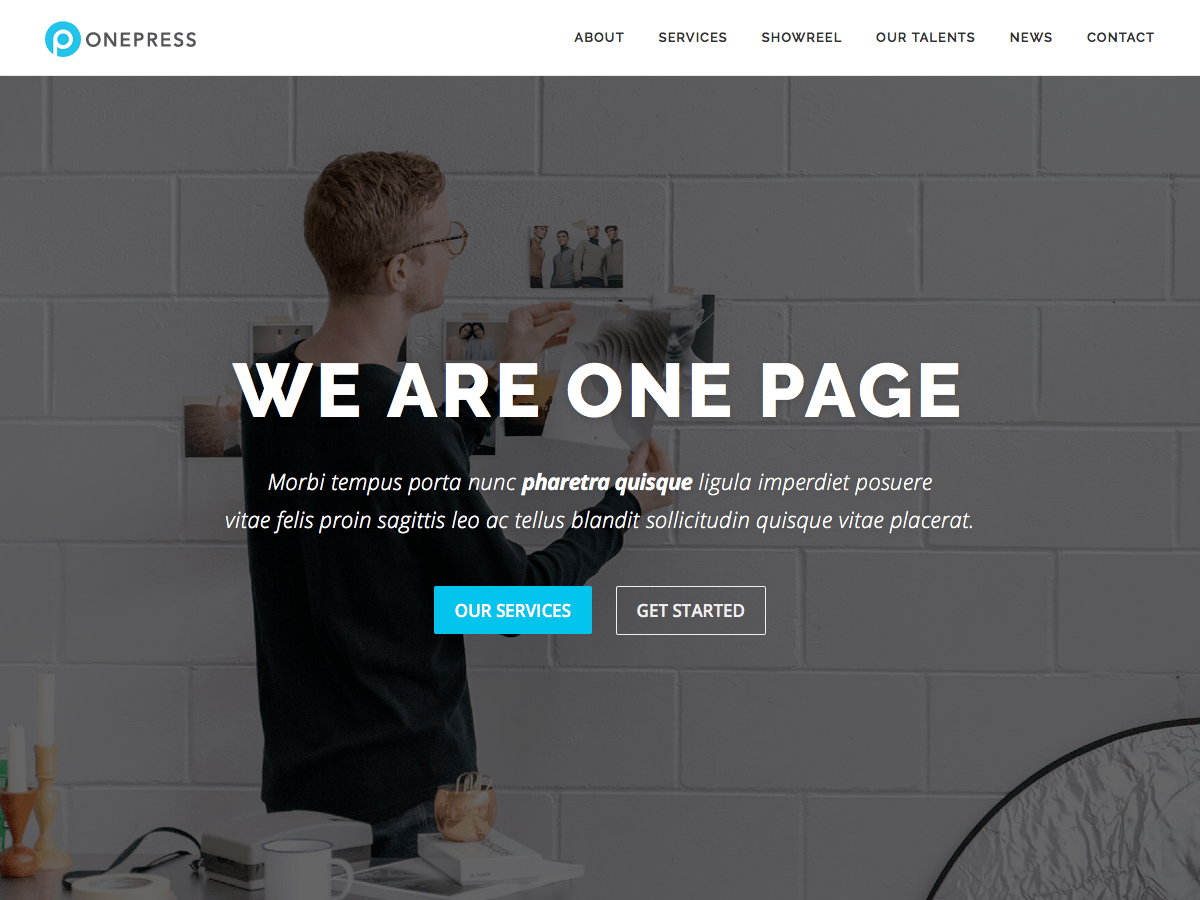
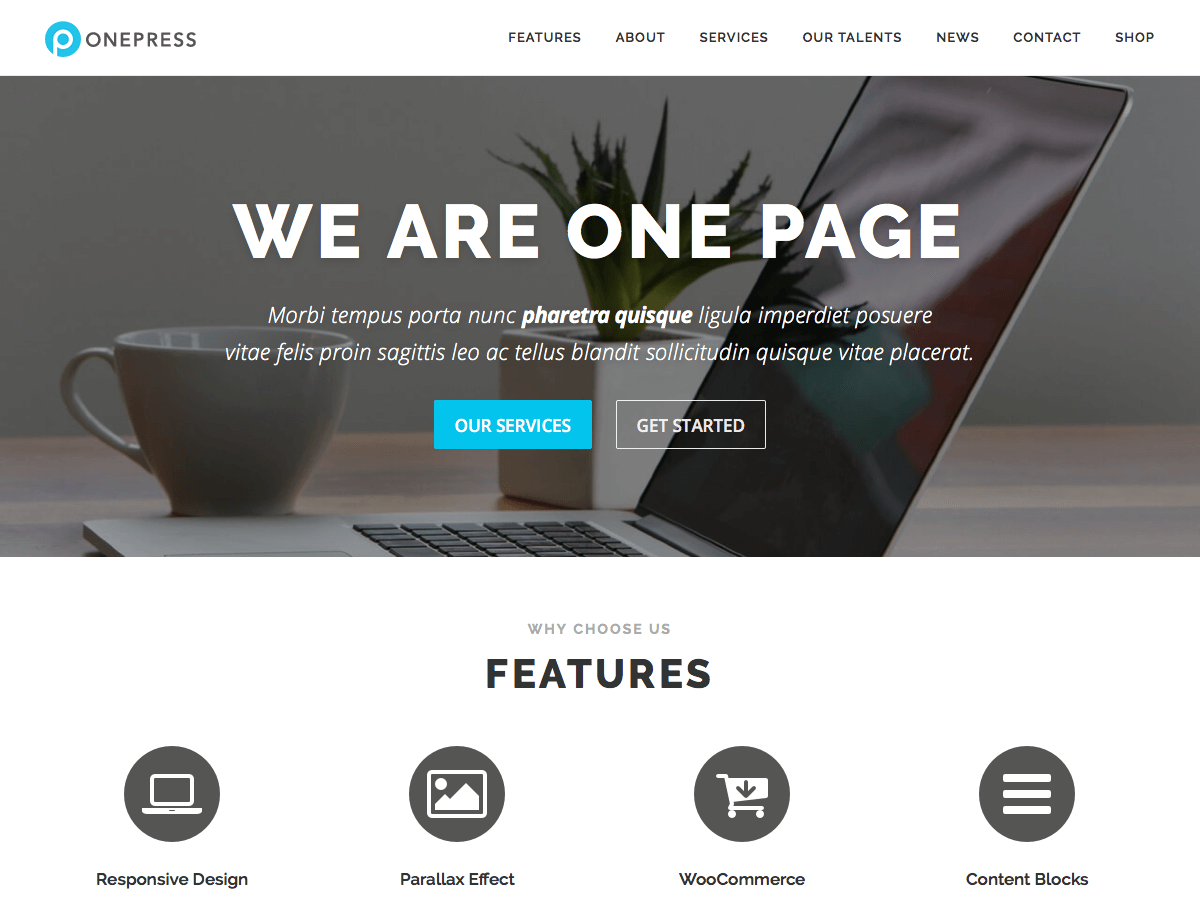
Increase version + changelog

diff --git a/assets/sass/style.scss b/assets/sass/style.scss
@@ -3,8 +3,8 @@ Theme Name: OnePress
 Theme URI: https://www.famethemes.com/themes/onepress/
 Author: FameThemes
 Author URI: http://www.famethemes.com
-Description: OnePress is an outstanding creative and flexible WordPress one page theme well suited for business website, portfolio, digital agency, product showcase, freelancers and everyone else who appreciate good design. The theme overall is an elegant and classic one, a fine example of Bootstrap 4 WordPress theme. (Live preview : http://www.famethemes.com/preview/?theme=OnePress)
-Version: 1.1.4
+Description: OnePress is an outstanding creative and flexible WordPress one page theme well suited for business website, portfolio, digital agency, product showcase, freelancers and everyone else who appreciate good design. The theme overall is an elegant and classic one, a fine example of Bootstrap 4 WordPress theme which compatibility with latest version of WooCommerce. (Live preview : http://www.famethemes.com/preview/?theme=OnePress)
+Version: 1.1.5
 License: GNU General Public License v2 or later
 License URI: http://www.gnu.org/licenses/gpl-2.0.html
 Text Domain: onepress

diff --git a/style.css b/style.css
@@ -3,8 +3,8 @@ Theme Name: OnePress
 Theme URI: https://www.famethemes.com/themes/onepress/
 Author: FameThemes
 Author URI: http://www.famethemes.com
-Description: OnePress is an outstanding creative and flexible WordPress one page theme well suited for business website, portfolio, digital agency, product showcase, freelancers and everyone else who appreciate good design. The theme overall is an elegant and classic one, a fine example of Bootstrap 4 WordPress theme. (Live preview : http://www.famethemes.com/preview/?theme=OnePress)
-Version: 1.1.4
+Description: OnePress is an outstanding creative and flexible WordPress one page theme well suited for business website, portfolio, digital agency, product showcase, freelancers and everyone else who appreciate good design. The theme overall is an elegant and classic one, a fine example of Bootstrap 4 WordPress theme which compatibility with latest version of WooCommerce. (Live preview : http://www.famethemes.com/preview/?theme=OnePress)
+Version: 1.1.5
 License: GNU General Public License v2 or later
 License URI: http://www.gnu.org/licenses/gpl-2.0.html
 Text Domain: onepress

diff --git a/changelog.md b/changelog.md
@@ -1,6 +1,14 @@
 ====================================================================
 CHANGELOG
 ====================================================================
+
+## 1.1.5
+* New section: Features.
+* Unlimited footer social icons.
+* Update readme.txt and declare theme copyright.
+* Switch from `query_posts` to WP_Query.
+* Add more template hook for child theme.
+
 ## 1.1.4
 * Fix a bug merge data incorrect for customizer.
 
